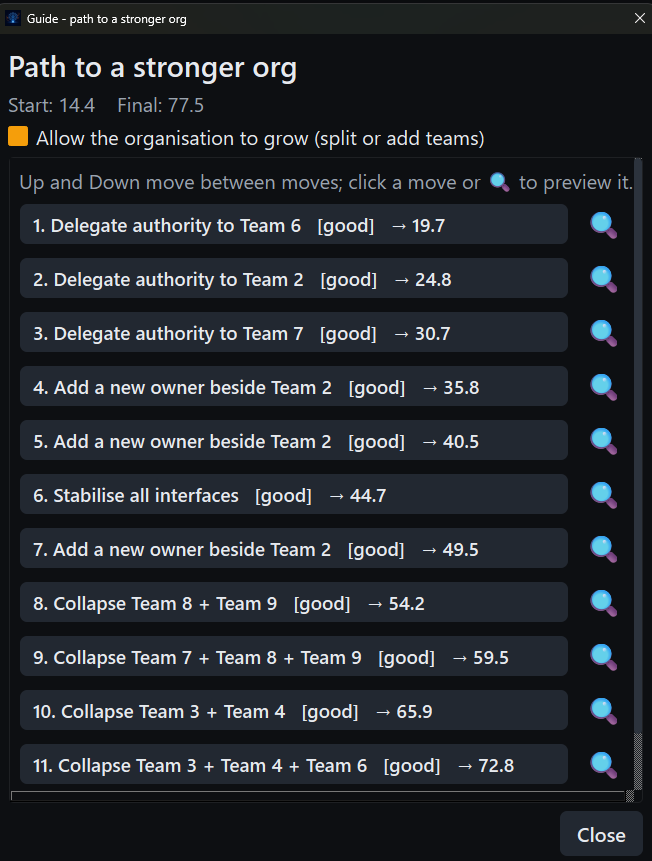
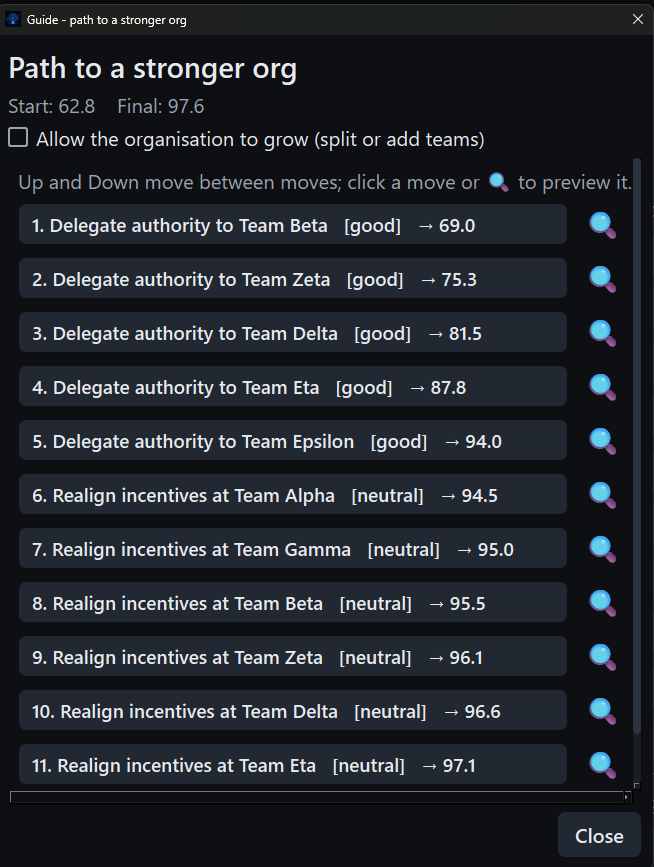
Refresh the site for 2.0.0: new screenshots, a modelling section and the embedded plan export

Changed region(s): [[0.0, 0.0604, 1.0, 1.0], [0.0, 0.0, 0.3067, 0.0302], [0.9509, 0.0, 1.0, 0.0302]]

diff --git a/docs/tool.html b/docs/tool.html
@@ -60,28 +60,83 @@
       <div class="shots">
         <figure class="shot">
           <div class="frame">
-            <img loading="lazy" src="assets/screenshots/play-board.png" alt="The Fulcrum board scoring an organisation's structure">
+            <img loading="lazy" src="assets/screenshots/play-board.png" alt="The Fulcrum board scoring a modelled organisation's structure">
           </div>
-          <figcaption><b>The position.</b> A generated organisation scoring
-            14.4 out of 100. Its 47 people across 9 teams sit under the Sales
-            section on the map; a stick figure marks who decides locally against
-            who escalates; the right-hand list holds the moves the current scope
-            opens up and the signals below flag the pain, including influence
-            without authority.</figcaption>
+          <figcaption><b>The position.</b> A modelled organisation scoring
+            62.8 out of 100: 51 people across 7 teams, drawn as the units of
+            the top level with the dependencies between them. Green marks a
+            unit whose teams decide locally; amber marks one that escalates.
+            The right-hand list holds every move the current scope opens up,
+            each graded from blunder to great with its exact gain, and the
+            signals below flag the pain. "Play this level" scores the top
+            level as its own frame, so even a dependency between two whole
+            units is priced.</figcaption>
         </figure>
         <figure class="shot">
           <div class="frame">
             <img loading="lazy" src="assets/screenshots/play-guide.png" alt="The Fulcrum guide planning a stronger org">
           </div>
           <figcaption><b>The line.</b> The guide plans the climb move by
-            move, 14.4 to 77.5, each step a good move. It opens by delegating
-            authority to the teams everyone depends on, then adds owners,
-            stabilises interfaces and collapses boundaries.</figcaption>
+            move, 62.8 to 97.6. It delegates authority team by team first,
+            because that is where the points are, then sweeps up the remaining
+            incentive skew: the same order the books argue for, discovered by
+            the engine.</figcaption>
         </figure>
       </div>
       <div class="cta">
         <a class="btn btn-primary" href="download.html">Download Fulcrum</a>
         <a class="btn btn-ghost" href="why.html">Why this exists</a>
+      </div>
+    </div>
+  </section>
+  <section id="model">
+    <div class="container">
+      <div class="eyebrow">Model your organisation</div>
+      <h2 class="section-title">Draw the org you actually have</h2>
+      <p class="section-sub">A two-pane editor keeps the structure visible
+        while you build it: units nest to any depth with teams as the leaves,
+        and an inspector edits whatever is selected.</p>
+      <div class="shots">
+        <figure class="shot">
+          <div class="frame">
+            <img loading="lazy" src="assets/screenshots/model-org.png" alt="The Fulcrum organisation editor: the org tree, the inspector and the dependency table">
+          </div>
+          <figcaption><b>The editor.</b> Start at any tier from the New
+            dropdown (a whole company down to a single team), drag rows like
+            folders and convert an item's type in place. Dependencies link any
+            two items: team to team, unit to unit or across levels, so a
+            division blocked on a single platform team is one honest row, not
+            a workaround. Everything round-trips: the model autosaves, reopens
+            for editing whatever its origin and exports as JSON.</figcaption>
+        </figure>
+      </div>
+    </div>
+  </section>
+  <section id="output" class="alt">
+    <div class="container">
+      <div class="eyebrow">The output</div>
+      <h2 class="section-title">From a played line to a plan you can send</h2>
+      <p class="section-sub">One click exports the moves you played as a
+        self-contained HTML report: the health change, before and after maps
+        and a recommendation section addressed to each unit's lead, each move
+        justified by the signal it eased. This is a real export, embedded
+        here as shipped.</p>
+      <div class="shots">
+        <figure class="shot">
+          <div class="frame">
+            <iframe src="assets/html/fulcrum-presentation.html"
+                    title="An example Fulcrum plan export"
+                    loading="lazy"
+                    style="display:block;width:100%;height:640px;border:0;background:#0d0f12"></iframe>
+          </div>
+          <figcaption><b>The plan.</b> One delegation, plus six points of
+            structural health: the report names the move, the lead it belongs
+            to and the signal that eased. A JSON twin exports alongside it, so
+            the organisation and its played moves re-import to resume.</figcaption>
+        </figure>
+      </div>
+      <div class="cta">
+        <a class="btn btn-ghost" href="assets/html/fulcrum-presentation.html" target="_blank" rel="noopener">Open the example report</a>
       </div>
     </div>
   </section>

diff --git a/docs/index.html b/docs/index.html
@@ -77,7 +77,7 @@
       <h2 class="section-title">Find your question</h2>
       <p class="section-sub">The detail lives on three focused pages instead of one long scroll.</p>
       <div class="features">
-        <div class="feature"><h3><a href="tool.html">The tool</a></h3><p>The board, the score, the moves and the guide that plans a stronger organisation move by move.</p></div>
+        <div class="feature"><h3><a href="tool.html">The tool</a></h3><p>The board, the score, the moves, the guide that plans a stronger organisation move by move and the plan export you can send to a lead.</p></div>
         <div class="feature"><h3><a href="why.html">Why this exists</a></h3><p>Why organisational theory needed an engine, what the numbers show and the books the model comes from.</p></div>
         <div class="feature"><h3><a href="download.html">Download</a></h3><p>Native builds for Windows, macOS and Linux. Free, local-first, no account.</p></div>
       </div>

diff --git a/docs/assets/html/fulcrum-presentation.html b/docs/assets/html/fulcrum-presentation.html
@@ -1,0 +1,1 @@
+<!DOCTYPE html><html lang="en"><head><meta charset="utf-8"><title>Fulcrum plan</title><style>body{background:#0d0f12;color:#e6e9ee;font-family:Segoe UI,Arial,sans-serif;margin:0}.wrap{max-width:900px;margin:0 auto;padding:32px}h1{color:#fbbf24}h2{color:#f59e0b;border-bottom:1px solid #2c333d;padding-bottom:6px}.muted{color:#9aa3af}.card,.rec{background:#1a1e24;border:1px solid #2c333d;border-radius:10px;padding:16px;margin:16px 0}.maps{display:flex;gap:24px;flex-wrap:wrap}figure{margin:0}figcaption{color:#9aa3af;margin-bottom:6px}ol{line-height:1.6}li{margin-bottom:12px}.badge{border-radius:4px;padding:2px 8px;color:#0d0f12;font-weight:600;font-size:12px}.score{color:#9aa3af;margin-left:8px}.rationale{color:#9aa3af;margin-top:4px}.score-line{font-size:18px}</style></head><body><div class="wrap"><h1>Fulcrum: decision plan</h1><div class="card"><p class="score-line">Structural health: <b>56.5</b> &rarr; <b>62.8</b> (+6.2) over 1 move.</p><div class="maps"><figure><figcaption>Before</figcaption><svg xmlns="http://www.w3.org/2000/svg" width="684" height="248" viewBox="0 0 684 248"><rect width="684" height="248" fill="#0d0f12"/><line x1="342" y1="60" x2="570" y2="188" stroke="#5b6470" stroke-width="1.5"/><line x1="114" y1="60" x2="342" y2="188" stroke="#5b6470" stroke-width="1.5"/><line x1="114" y1="60" x2="570" y2="60" stroke="#5b6470" stroke-width="1.5"/><rect x="24" y="24" width="180" height="72" rx="10" fill="#222831" stroke="#f59e0b" stroke-width="2"/><text x="36" y="50" fill="#e6e9ee" font-size="14" font-weight="bold">Company Alpha</text><text x="36" y="70" fill="#9aa3af" font-size="12">1 team</text><text x="36" y="88" fill="#9aa3af" font-size="12">lead: Finn Weatherill</text><rect x="252" y="24" width="180" height="72" rx="10" fill="#222831" stroke="#34d399" stroke-width="2"/><text x="264" y="50" fill="#e6e9ee" font-size="14" font-weight="bold">Group Beta</text><text x="264" y="70" fill="#9aa3af" font-size="12">1 team</text><text x="264" y="88" fill="#9aa3af" font-size="12">lead: Jun Nakamura</text><rect x="480" y="24" width="180" height="72" rx="10" fill="#222831" stroke="#f59e0b" stroke-width="2"/><text x="492" y="50" fill="#e6e9ee" font-size="14" font-weight="bold">Department Delta</text><text x="492" y="70" fill="#9aa3af" font-size="12">1 team</text><text x="492" y="88" fill="#9aa3af" font-size="12">lead: Jack Thornbury</text><rect x="24" y="152" width="180" height="72" rx="10" fill="#222831" stroke="#f59e0b" stroke-width="2"/><text x="36" y="178" fill="#e6e9ee" font-size="14" font-weight="bold">Group Epsilon</text><text x="36" y="198" fill="#9aa3af" font-size="12">2 teams</text><text x="36" y="216" fill="#9aa3af" font-size="12">lead: Rory Malone</text><rect x="252" y="152" width="180" height="72" rx="10" fill="#222831" stroke="#f59e0b" stroke-width="2"/><text x="264" y="178" fill="#e6e9ee" font-size="14" font-weight="bold">Department Theta</text><text x="264" y="198" fill="#9aa3af" font-size="12">1 team</text><text x="264" y="216" fill="#9aa3af" font-size="12">lead: Gareth Pritchard</text><rect x="480" y="152" width="180" height="72" rx="10" fill="#1a1e24" stroke="#f59e0b" stroke-width="2"/><text x="492" y="178" fill="#e6e9ee" font-size="14" font-weight="bold">Team Epsilon</text><text x="492" y="198" fill="#9aa3af" font-size="12">escalates</text><text x="492" y="216" fill="#9aa3af" font-size="12">owner: Sophie Whitfield</text></svg></figure><figure><figcaption>After</figcaption><svg xmlns="http://www.w3.org/2000/svg" width="684" height="248" viewBox="0 0 684 248"><rect width="684" height="248" fill="#0d0f12"/><line x1="342" y1="60" x2="570" y2="188" stroke="#5b6470" stroke-width="1.5"/><line x1="114" y1="60" x2="342" y2="188" stroke="#5b6470" stroke-width="1.5"/><line x1="114" y1="60" x2="570" y2="60" stroke="#5b6470" stroke-width="1.5"/><rect x="24" y="24" width="180" height="72" rx="10" fill="#222831" stroke="#34d399" stroke-width="2"/><text x="36" y="50" fill="#e6e9ee" font-size="14" font-weight="bold">Company Alpha</text><text x="36" y="70" fill="#9aa3af" font-size="12">1 team</text><text x="36" y="88" fill="#9aa3af" font-size="12">lead: Finn Weatherill</text><rect x="252" y="24" width="180" height="72" rx="10" fill="#222831" stroke="#34d399" stroke-width="2"/><text x="264" y="50" fill="#e6e9ee" font-size="14" font-weight="bold">Group Beta</text><text x="264" y="70" fill="#9aa3af" font-size="12">1 team</text><text x="264" y="88" fill="#9aa3af" font-size="12">lead: Jun Nakamura</text><rect x="480" y="24" width="180" height="72" rx="10" fill="#222831" stroke="#f59e0b" stroke-width="2"/><text x="492" y="50" fill="#e6e9ee" font-size="14" font-weight="bold">Department Delta</text><text x="492" y="70" fill="#9aa3af" font-size="12">1 team</text><text x="492" y="88" fill="#9aa3af" font-size="12">lead: Jack Thornbury</text><rect x="24" y="152" width="180" height="72" rx="10" fill="#222831" stroke="#f59e0b" stroke-width="2"/><text x="36" y="178" fill="#e6e9ee" font-size="14" font-weight="bold">Group Epsilon</text><text x="36" y="198" fill="#9aa3af" font-size="12">2 teams</text><text x="36" y="216" fill="#9aa3af" font-size="12">lead: Rory Malone</text><rect x="252" y="152" width="180" height="72" rx="10" fill="#222831" stroke="#f59e0b" stroke-width="2"/><text x="264" y="178" fill="#e6e9ee" font-size="14" font-weight="bold">Department Theta</text><text x="264" y="198" fill="#9aa3af" font-size="12">1 team</text><text x="264" y="216" fill="#9aa3af" font-size="12">lead: Gareth Pritchard</text><rect x="480" y="152" width="180" height="72" rx="10" fill="#1a1e24" stroke="#f59e0b" stroke-width="2"/><text x="492" y="178" fill="#e6e9ee" font-size="14" font-weight="bold">Team Epsilon</text><text x="492" y="198" fill="#9aa3af" font-size="12">escalates</text><text x="492" y="216" fill="#9aa3af" font-size="12">owner: Sophie Whitfield</text></svg></figure></div></div><h2>Recommendations by domain</h2><section class="rec"><h3>Company Alpha (for Finn Weatherill)</h3><ol><li><span class="badge" style="background:#34d399">good</span> <b>Delegate authority to Team Alpha</b> <span class="score">56.5 &rarr; 62.8</span><div class="rationale">Delegate authority to Team Alpha: Escalations per release falls 6 -&gt; 5; structural health 56.5 -&gt; 62.8 (good).</div></li></ol></section></div></body></html>